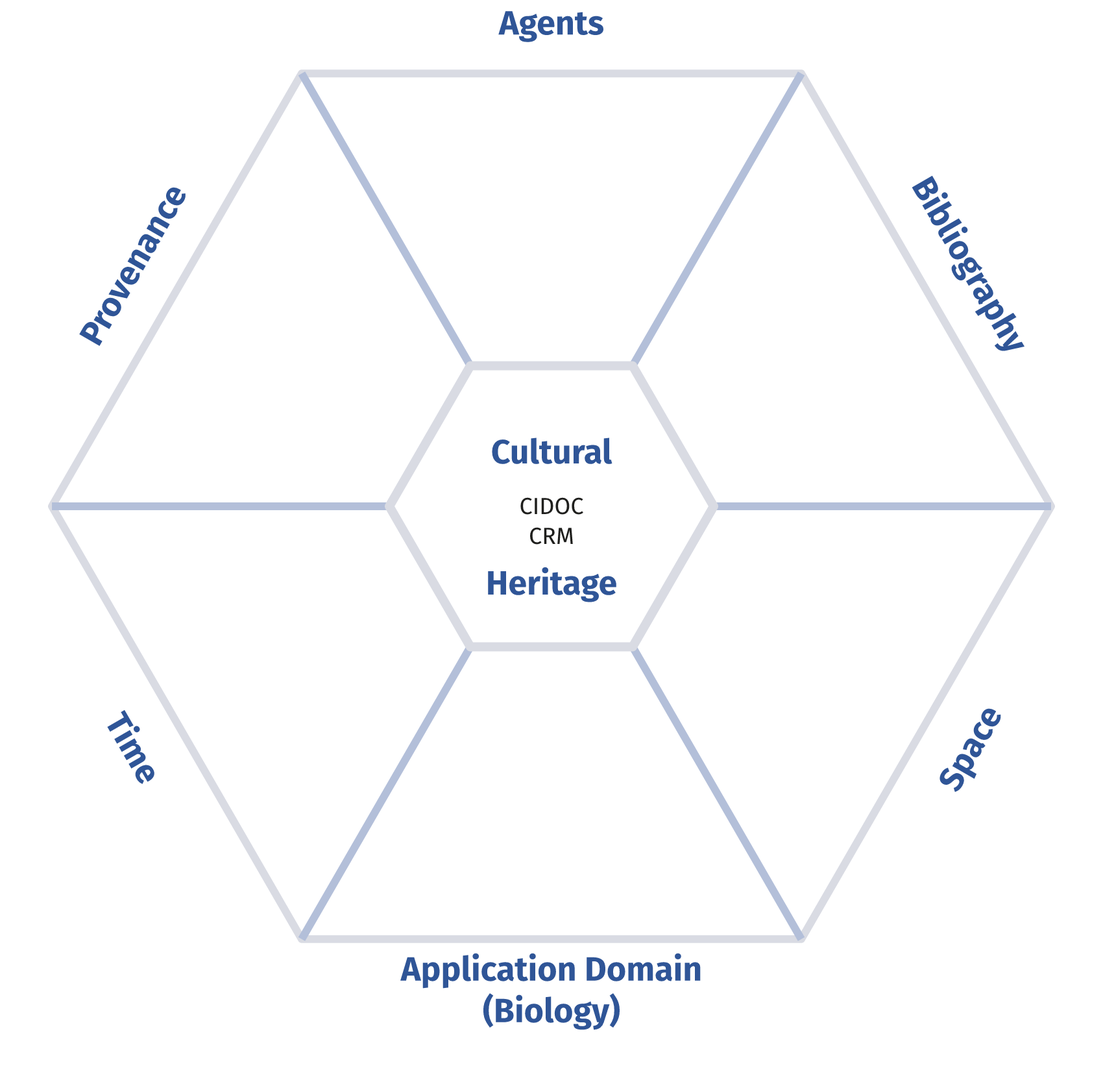
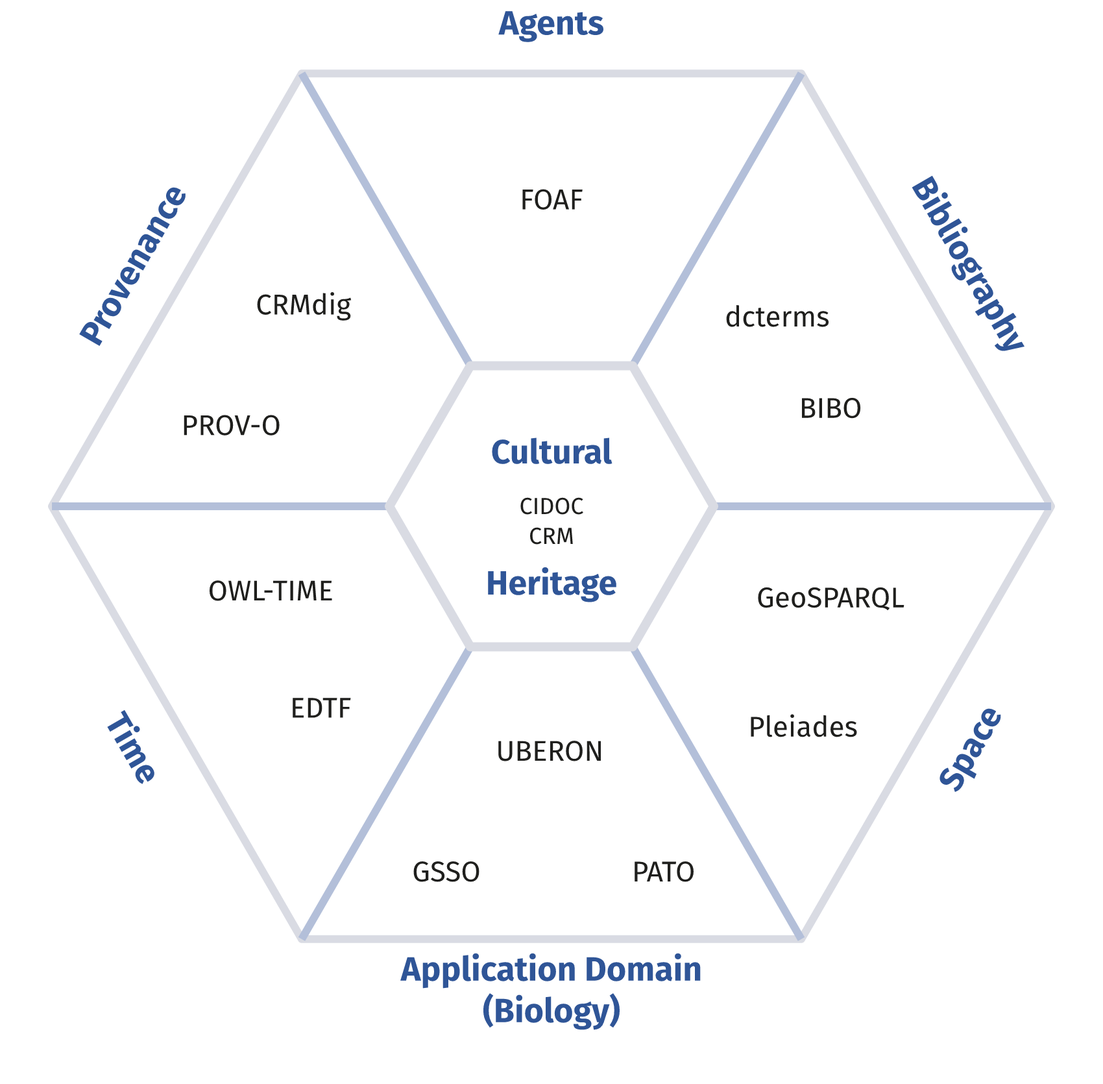
Fig. 9: ontology names in the six sectors, opaque background
Claude-Session: https://claude.ai/code/session_0145BdeBL6JEDb3HE12Py9VZ

diff --git a/docs/derse26_geographs/index.html b/docs/derse26_geographs/index.html
@@ -16,7 +16,7 @@ figure.new{border-color:#c2410c;background:#fff}figcaption{font-weight:500;color
 </style></head><body>
 <header><h1>From Relations to Graphs: figures, submitted and new</h1><div class="meta">deRSE26 / ECEASST, revision of November 2026. Click an image to enlarge, Esc or click to close.</div></header>
 <main><table><tr><td><b>No.</b></td><td><b>Figure</b></td><td><b>Section</b></td><td><b>Status</b></td></tr><tr><td><a href="#fig1">Fig. 1</a></td><td>Federated Knowledge Graph Ecosystem</td><td>§1 Introduction</td><td><span class="chip" style="background:#166534">new figure ready</span></td></tr><tr><td><a href="#fig2">Fig. 2</a></td><td>Ogham stone in Wikidata and the fuzzy-sl Wikibase</td><td>§5.1 Wikidata</td><td><span class="chip" style="background:#55544f">keep as submitted</span></td></tr><tr><td><a href="#fig3">Fig. 3</a></td><td>Schematic data model of the fuzzy-sl Wikibase</td><td>§5.2 fuzzy-sl</td><td><span class="chip" style="background:#166534">new figure ready</span></td></tr><tr><td><a href="#fig4">Fig. 4</a></td><td>Campanian Ignimbrite findspots in the fuzzy-sl Wikibase</td><td>§5.2 fuzzy-sl</td><td><span class="chip" style="background:#166534">new figure ready</span></td></tr><tr><td><a href="#fig5">Fig. 5</a></td><td>The bb5kbc ontology (spatial part)</td><td>§5.3 BB-5KBC</td><td><span class="chip" style="background:#166534">new figure ready</span></td></tr><tr><td><a href="#fig6">Fig. 6</a></td><td>Ontology scheme of the palaeoclimate pipeline</td><td>§5.4 Pipeline</td><td><span class="chip" style="background:#166534">new figure ready</span></td></tr><tr><td><a href="#fig7">Fig. 7</a></td><td>CI instances</td><td>§5.4 Pipeline</td><td><span class="chip" style="background:#166534">new figure ready</span></td></tr><tr><td><a href="#fig8">Fig. 8</a></td><td>Big Exchange meta path</td><td>§5.6 HIN</td><td><span class="chip" style="background:#55544f">keep as submitted</span></td></tr><tr><td><a href="#fig9">Fig. 9</a></td><td>ArNO ontology modules</td><td>§5.7 HIN to KG</td><td><span class="chip" style="background:#166534">new figure ready</span></td></tr><tr><td><a href="#fig10">Fig. 10</a></td><td>Mapping of HIN node types to ArNO classes</td><td>§5.7 HIN to KG</td><td><span class="chip" style="background:#166534">new figure ready</span></td></tr><tr><td><a href="#z2">Z2</a></td><td>One Ogham stone in five modelling styles</td><td>§3 or §4 (placement open)</td><td><span class="chip" style="background:#166534">new figure ready</span></td></tr><tr><td><a href="#z3">Z3</a></td><td>Where the showcases are</td><td>§5 (overview)</td><td><span class="chip" style="background:#166534">new figure ready</span></td></tr></table>
-<section id="fig1"><h2><span class="num">Fig. 1</span> Federated Knowledge Graph Ecosystem <span class="chip" style="background:#166534">new figure ready</span></h2><p class="sec">§1 Introduction</p><div class="pair"><figure><figcaption>Submitted</figcaption><a href="gallery/old/fkge.jpg" class="zoom "><img loading="lazy" src="gallery/old/fkge.jpg" alt="Federated Knowledge Graph Ecosystem"></a><p class="cap">Scheme of the Federated Knowledge Graph Ecosystem. Licence -- Florian Thiery &amp; Andreas Noback, CC BY 4.0</p></figure><figure class="new"><figcaption>New</figcaption><a href="out/fig1_fkge.png" class="zoom "><img loading="lazy" src="out/fig1_fkge.png" alt="Federated Knowledge Graph Ecosystem"></a><p class="cap">Scheme of the Federated Knowledge Graph Ecosystem. Licence: Florian Thiery &amp; Andreas Noback, CC BY 4.0.</p></figure></div><ul><li>Source: thiery_stones_2026, Fig. 1</li><li>Typo Publikation corrected by Flo (OA Publication), margin enlarged on all sides; the figure is his own drawing, so it is only re-exported here (2400 px wide)</li></ul></section><section id="fig2"><h2><span class="num">Fig. 2</span> Ogham stone in Wikidata and the fuzzy-sl Wikibase <span class="chip" style="background:#55544f">keep as submitted</span></h2><p class="sec">§5.1 Wikidata</p><div class="pair"><figure><figcaption>Submitted</figcaption><a href="gallery/old/ogham-wikidata.jpg" class="zoom "><img loading="lazy" src="gallery/old/ogham-wikidata.jpg" alt="Ogham stone in Wikidata and the fuzzy-sl Wikibase"></a><p class="cap">Ogham Stone CIIC 81 and its spatial locations in Wikidata and the fuzzy-sl Wikibase. Licence -- Florian Thiery, CC BY 4.0; (A) Wikidata Community, Public Domain; (B) Florian Thiery, CC BY-NC-SA 4.0; (C/E) Research Squirrel Engineers Network, CC BY 4.0; (E) \copyright~\&#x27;O R\&#x27;{\i}ord\&#x27;ain and Ryan; (F) OpenStreetMap Contributors, Open Database License.</p></figure><figure class="new none"><figcaption>New</figcaption><div class="empty">no new version yet</div></figure></div><ul><li>Screenshots; z2 (below) can complement it as a model comparison</li><li>Reviewer C refers to &quot;Section 5, Figure 2&quot;: probably this figure (assumption)</li></ul></section><section id="fig3"><h2><span class="num">Fig. 3</span> Schematic data model of the fuzzy-sl Wikibase <span class="chip" style="background:#166534">new figure ready</span></h2><p class="sec">§5.2 fuzzy-sl</p><div class="pair"><figure><figcaption>Submitted</figcaption><a href="gallery/old/fuzzy-sl_Wikibase.jpg" class="zoom "><img loading="lazy" src="gallery/old/fuzzy-sl_Wikibase.jpg" alt="Schematic data model of the fuzzy-sl Wikibase"></a><p class="cap">Schematic data model of the fuzzy-sl Wikibase. License -- Florian Thiery, CC BY 4.0.</p></figure><figure class="new"><figcaption>New</figcaption><a href="out/fig3_fuzzysl_datamodel.png" class="zoom "><img loading="lazy" src="out/fig3_fuzzysl_datamodel.png" alt="Schematic data model of the fuzzy-sl Wikibase"></a><p class="cap">Data model of the fuzzy-sl Wikibase. (GLM) Geolocation metadata: a fuzzy-sl entity has a label and a description and is described by its instance type (P1), project (P3), literature reference (P11), related external resource with its relation type (P10, qP12), spatial type (P8), spatial category (P26), the administrative territorial entity in Wikidata (P32) and its coordinate (P4). (CM) Coordinate metadata: the coordinate statement carries ten qualifiers (solid arrows: certainty level and description, method used and description, acting person, source type in generic and detailed form, location type, point type and precision) and three reference properties (dashed arrows: reference URL, reference string, reference item). Grey: instance; purple: vocabulary item with its Q number; dashed outline: external resource; white: literal; black: coordinate. Property labels and classes are those of the static copy of the fuzzy-sl Wikibase. Licence: Florian Thiery, CC BY 4.0.</p></figure></div><ul><li>Redrawn after the old picture (same nodes, properties and arrows); labels, datatypes and classes read from the static Wikibase copy</li><li>Same model as Fig. 4B of Thiery et al. 2026 (JOHD 12:10); P26 (has spatial category) added because the old picture omitted it</li><li>Layout stacked (GLM above CM) because 24 px type needs the width; the old picture placed CM left of GLM</li></ul></section><section id="fig4"><h2><span class="num">Fig. 4</span> Campanian Ignimbrite findspots in the fuzzy-sl Wikibase <span class="chip" style="background:#166534">new figure ready</span></h2><p class="sec">§5.2 fuzzy-sl</p><div class="pair"><figure><figcaption>Submitted</figcaption><a href="gallery/old/ci-fuzzy-sl-wikibase.jpg" class="zoom "><img loading="lazy" src="gallery/old/ci-fuzzy-sl-wikibase.jpg" alt="Campanian Ignimbrite findspots in the fuzzy-sl Wikibase"></a><p class="cap">Geospatial modelling of Campanian Ignimbrite Findspots within the fuzzy-sl Wikibase. Licence -- Florian Thiery &amp; Fiona Schenk, CC BY 4.0; OSM maps: OpenStreetMap Contributors, Open Database License.</p></figure><figure class="new"><figcaption>New</figcaption><a href="out/fig4_ci_findspots.png" class="zoom "><img loading="lazy" src="out/fig4_ci_findspots.png" alt="Campanian Ignimbrite findspots in the fuzzy-sl Wikibase"></a><p class="cap">Campanian Ignimbrite findspots in the geo-lod graph and one coordinate statement in the fuzzy-sl Wikibase. (A) The 74 findspots, distinguished by whether they are typed as archaeological sites (12) or not (62); dashed rings mark 500 km and 1000 km from the Phlegraean Fields, the source area of the eruption. (B) The coordinate statement of Auel Maar AU3 (Q70) with its qualifiers: certainty level and description, method, acting person, source type, precision, location and point type, and the literature reference. Purple: vocabulary terms; grey: items; white: literals. The inset map shows the Eifel around the Auel Maar with rivers, borders, Cologne and Daun. Licence: Florian Thiery and Fiona Schenk, CC BY 4.0; base map: Natural Earth, public domain.</p></figure></div><ul><li>v3: archaeology vs. other, Auel Maar AU3 from the static Wikibase copy, minimap</li><li>Static Wikibase has 19 CI items, the graph 74</li></ul></section><section id="fig5"><h2><span class="num">Fig. 5</span> The bb5kbc ontology (spatial part) <span class="chip" style="background:#166534">new figure ready</span></h2><p class="sec">§5.3 BB-5KBC</p><div class="pair"><figure><figcaption>Submitted</figcaption><a href="gallery/old/bb-5kbc-ontology.jpg" class="zoom "><img loading="lazy" src="gallery/old/bb-5kbc-ontology.jpg" alt="The bb5kbc ontology (spatial part)"></a><p class="cap">The bb5kbc Ontology. Licence -- Florian Thiery &amp; Sophie C. Schmidt, CC BY 4.0.</p></figure><figure class="new"><figcaption>New</figcaption><a href="out/fig5_bb5kbc_spatial.png" class="zoom "><img loading="lazy" src="out/fig5_bb5kbc_spatial.png" alt="The bb5kbc ontology (spatial part)"></a><p class="cap">Spatial part of the BB-5KBC ontology. (A) Classes and properties around the place of a findspot: a Fundstelle (CIDOC CRM E27 Site) lies in a municipality (Gemeinde, with external identifiers such as Wikidata, GeoNames, Getty TGN and OpenStreetMap), district (Kreis), federal state (Bundesland) and country (Land); it has a GeoSPARQL point geometry with a WKT literal, and it was georeferenced by a georeferencing activity (E13 Attribute Assignment) that records method, source type and person. Dark orange: classes; white boxes: attributes with their datatypes; amber: properties. (B) One of the 540 findspots, Seelow 20 (red ring on the map), as an instance: the point geometry, its accuracy (±1000 m, because the published coordinates are rounded to two decimal places), the precision (±0.01°), the certainty level and location type from the fuzzy-sl vocabulary, the municipality and the georeferencing activity. Data: BB-5KBC bundle (commit c2e989b); base map: Natural Earth. Licence: Florian Thiery &amp; Sophie C. Schmidt, CC BY 4.0.</p></figure></div><ul><li>Redrawn from data/bb5kbc-bundle.ttl (bb-5kbc-public, commit c2e989b, 2026-09-15; 540 findspots); the old picture was a Mermaid class diagram</li><li>Example findspot: Seelow 20 (site_80). The bundle still stores hatGenauigkeit 0.0; the figure shows +-1000 m (published coordinates rounded to 2 decimals, JCM 2026 slides) and a precision of +-0.01 degrees, which is not in the data yet: update bb-5kbc-public and re-check the figure</li><li>Geo focus: only the spatial classes (Fundstelle, Gemeinde, Kreis, Bundesland, Land, Point, GeoreferenzierungsAktivitaet); the non-geo classes are omitted and could go into a supplement version</li><li>The data model has changed since the old picture (geo:hasGeometry, fsl certainty and location type, georeferencing activity); every property is asserted against the bundle</li></ul></section><section id="fig6"><h2><span class="num">Fig. 6</span> Ontology scheme of the palaeoclimate pipeline <span class="chip" style="background:#166534">new figure ready</span></h2><p class="sec">§5.4 Pipeline</p><div class="pair"><figure><figcaption>Submitted</figcaption><a href="gallery/old/taxonomy.jpg" class="zoom "><img loading="lazy" src="gallery/old/taxonomy.jpg" alt="Ontology scheme of the palaeoclimate pipeline"></a><p class="cap">Ontology Scheme of the Palaeoclimate Data Processing Pipeline (GeoSciece-FAIRification-LOD). Licence -- Florian Thiery &amp; Fiona Schenk, CC BY 4.0.</p></figure><figure class="new"><figcaption>New</figcaption><a href="out/fig6_place_taxonomy.png" class="zoom "><img loading="lazy" src="out/fig6_place_taxonomy.png" alt="Ontology scheme of the palaeoclimate pipeline"></a><p class="cap">Modelling places in the geo-lod ontologies. (A) The place classes and their anchors in CIDOC CRM, CRMarchaeo and fuzzy-sl; hollow arrows are rdfs:subClassOf statements of the ontology files (geo_lod_core.ttl, crm_bridging.ttl, sisal_ontology.ttl, epica_ontology.ttl). Sampling locations (drilling site, borehole, cave) and Campanian Ignimbrite findspots both specialise crm:E27_Site; the archaeological variants additionally inherit from crmarchaeo:A2_Stratigraphic_Volume_Unit. (B) The geometry of a place: a geo:Feature has a geo:Geometry (sf:Point, which CRMgeo reads as a declarative place; its inheritance from geo:Geometry is defined by GeoSPARQL and Simple Features, not by the ontology files) whose coordinates are a geo:wktLiteral. Dark orange: classes of the geo-lod ontologies; white: external classes; amber: property. Licence: Florian Thiery and Fiona Schenk, CC BY 4.0.</p></figure></div><ul><li>Slice: place classes and geometry pattern; the full scheme could move to the supplement</li><li>&quot;GeoSciece&quot; typo disappears with the new figure</li></ul></section><section id="fig7"><h2><span class="num">Fig. 7</span> CI instances <span class="chip" style="background:#166534">new figure ready</span></h2><p class="sec">§5.4 Pipeline</p><div class="pair"><figure><figcaption>Submitted</figcaption><a href="gallery/old/instance_ci.jpg" class="zoom "><img loading="lazy" src="gallery/old/instance_ci.jpg" alt="CI instances"></a><p class="cap">CI Instances Scheme. Licence -- Florian Thiery &amp; Fiona Schenk, CC BY 4.0.</p></figure><figure class="new"><figcaption>New</figcaption><a href="out/fig7_ci_instances.png" class="zoom "><img loading="lazy" src="out/fig7_ci_instances.png" alt="CI instances"></a><p class="cap">Two Campanian Ignimbrite findspots as instances in the geo-lod graph: (A) Toplitsa Cave (Bulgaria, ci:cisite_44) and (B) Franchthi Cave (Greece, ci:cisite_45). Both are typed as fsl:Site and geolod:CIArchaeologicalSite (a selection of their types is shown), carry the geometry as an sf:Point with a geo:asWKT literal and the fuzzy-sl certainty level, certainty description and literature reference, are aligned to Wikidata and OpenStreetMap via skos:closeMatch, and name the pipeline activity that generated them. The coordinate reference system prefix of the WKT literal is omitted. Colours: dark orange classes, purple vocabulary terms, grey instances, white literals. Minimaps: all 74 findspots (filled: archaeological site), the findspot of the panel ringed in red; country borders and major rivers from Natural Earth. Licence: Florian Thiery and Fiona Schenk, CC BY 4.0.</p></figure></div><ul><li>Toplitsa and Franchthi, every value read from the graph</li><li>Text says 9 archaeological sites, the graph has 12</li></ul></section><section id="fig8"><h2><span class="num">Fig. 8</span> Big Exchange meta path <span class="chip" style="background:#55544f">keep as submitted</span></h2><p class="sec">§5.6 HIN</p><div class="pair"><figure><figcaption>Submitted</figcaption><a href="gallery/old/BigExchangeMetaPath.jpg" class="zoom "><img loading="lazy" src="gallery/old/BigExchangeMetaPath.jpg" alt="Big Exchange meta path"></a><p class="cap">The meta path connecting two materials through finds of these materials that are found in sites with geolocations that share a spatially similar geolocation. Licence -- Mattis thor Straten et al., CC BY 4.0.</p></figure><figure class="new none"><figcaption>New</figcaption><div class="empty">no new version yet</div></figure></div><ul><li>From thor Straten et al. (CC BY 4.0); keeps its own look</li></ul></section><section id="fig9"><h2><span class="num">Fig. 9</span> ArNO ontology modules <span class="chip" style="background:#166534">new figure ready</span></h2><p class="sec">§5.7 HIN to KG</p><div class="pair"><figure><figcaption>Submitted</figcaption><a href="gallery/old/ARNO.jpg" class="zoom "><img loading="lazy" src="gallery/old/ARNO.jpg" alt="ArNO ontology modules"></a><p class="cap">The ontologies combined in the ArNO ontology grouped by the concept domain they are used for. Licence -- Mattis thor Straten et al., CC BY 4.0.</p></figure><figure class="new"><figcaption>New</figcaption><a href="out/fig9_arno_modules.png" class="zoom "><img loading="lazy" src="out/fig9_arno_modules.png" alt="ArNO ontology modules"></a><p class="cap">The ontologies combined in the ArNO ontology, grouped by the concept domain they are used for (redrawn after the original). Licence: Mattis thor Straten et al., CC BY 4.0.</p></figure></div><ul><li>1:1 redraw of the original (644 x 671 px): same hexagon, same seven labels, nothing added or changed; only typeface, colours and resolution follow the common style</li><li>The original is by Mattis thor Straten et al. (CC BY 4.0): say in the caption that it is redrawn after the original, and let him look at it</li></ul></section><section id="fig10"><h2><span class="num">Fig. 10</span> Mapping of HIN node types to ArNO classes <span class="chip" style="background:#166534">new figure ready</span></h2><p class="sec">§5.7 HIN to KG</p><div class="pair"><figure><figcaption>Submitted</figcaption><a href="gallery/old/ARNONetworkSchema.jpg" class="zoom "><img loading="lazy" src="gallery/old/ARNONetworkSchema.jpg" alt="Mapping of HIN node types to ArNO classes"></a><p class="cap">The mapping of the spatial node types of the HIN networks schema (on the right) to the hierarchical ArNO ontology classes. Licence -- Mattis thor Straten et al., CC BY 4.0.</p></figure><figure class="new"><figcaption>New</figcaption><a href="out/fig10_arno_spatial.png" class="zoom "><img loading="lazy" src="out/fig10_arno_spatial.png" alt="Mapping of HIN node types to ArNO classes"></a><p class="cap">Spatial classes of the Archaeo-Natural Ontology (ArNO) and their use in the Poseidon network schema. (A) Class hierarchy: hollow arrows point from a subclass to its superclass; the four classes defined in ArNO (red outline, Discovery Site, Site, Place, Country) sit below the Pleiades, LADO, GeoSPARQL and CIDOC CRM classes that they extend. (B) The spatial node types of the Poseidon network: an ancient DNA sample is found at a discovery site, which lies at a site, at a place, in a country; the discovery site has a point geometry with a WKT literal, and the nodes carry labels and, for the country, an ISO code. Dark orange: classes; white: literals; amber: object and data properties. Redrawn after Mattis thor Straten et al. (2025) from ArNO and poseidon2lod. Licence: Mattis thor Straten and Florian Thiery, CC BY 4.0.</p></figure></div><ul><li>Redrawn from data/ArNO.ttl (commit 5b1ad40) and poseidon2lod; the old picture mixed a Protege screenshot with a slide</li><li>Differences to the old picture (to be checked with Mattis thor Straten): only the Discovery Site has a geometry in poseidon2lod (the old picture also gave the Site a WKT point); ArNO.ttl spells disovery in the label of foundAtDiscoverySite (corrected in the figure)</li><li>Licence of the old picture: Mattis thor Straten et al., CC BY 4.0; the new figure is a redraw, say so in the caption</li></ul></section><section id="z2"><h2><span class="num">New Z2</span> One Ogham stone in five modelling styles <span class="chip" style="background:#166534">new figure ready</span></h2><p class="sec">§3 or §4 (placement open)</p><div class="pair single"><figure class="new"><a href="out/z2_one_stone_five_models.png" class="zoom "><img loading="lazy" src="out/z2_one_stone_five_models.png" alt="One Ogham stone in five modelling styles"></a><p class="cap">One coordinate in five modelling styles, shown for the Ogham stone Coumeenole North (Macalister 1945, textual description). (A) Wikidata: coordinate location with its qualifiers. (B) fuzzy-sl Wikibase: the coordinate statement carries certainty level, method, precision and location type as qualifiers. (C) RDF with GeoSPARQL: the point is a geo:asWKT literal of a geometry resource. (D) Labelled property graph: the point is a property of the node. (E) Heterogeneous information network: the point is a node of its own, so that nearby geolocations can be linked by distance classes. Red outline: where the coordinate sits. Data: Wikidata (CC0), fuzzy-sl Wikibase, Florian Thiery, CC BY 4.0.</p></figure></div><ul><li>Panel A read from data/wd/ (fetch_wd.py, run on the Windows machine)</li></ul></section><section id="z3"><h2><span class="num">New Z3</span> Where the showcases are <span class="chip" style="background:#166534">new figure ready</span></h2><p class="sec">§5 (overview)</p><div class="pair single"><figure class="new"><a href="out/z3_showcase_map.png" class="zoom "><img loading="lazy" src="out/z3_showcase_map.png" alt="Where the showcases are"></a><p class="cap">Where the spatial showcases are. (A) Europe and the Mediterranean: coordinate statements of the fuzzy-sl Wikibase (61; Ogham stones, Roman Britain, Bruttium coin finds, Campanian Ignimbrite and others), the Campanian Ignimbrite findspots of the geo-lod graph (74) and the BB-5KBC findspots (540). (B) The 365 SISAL caves of the geo-lod graph; the red frame marks panel A. The property-graph and HIN showcases are not mapped because they have no point dataset of their own. Base map: Natural Earth, public domain.</p></figure></div><ul><li>Colour = infrastructure (Wikibase vs. bespoke RDF pipeline); LPG and HIN showcases have no point data</li></ul></section></main>
+<section id="fig1"><h2><span class="num">Fig. 1</span> Federated Knowledge Graph Ecosystem <span class="chip" style="background:#166534">new figure ready</span></h2><p class="sec">§1 Introduction</p><div class="pair"><figure><figcaption>Submitted</figcaption><a href="gallery/old/fkge.jpg" class="zoom "><img loading="lazy" src="gallery/old/fkge.jpg" alt="Federated Knowledge Graph Ecosystem"></a><p class="cap">Scheme of the Federated Knowledge Graph Ecosystem. Licence -- Florian Thiery &amp; Andreas Noback, CC BY 4.0</p></figure><figure class="new"><figcaption>New</figcaption><a href="out/fig1_fkge.png" class="zoom "><img loading="lazy" src="out/fig1_fkge.png" alt="Federated Knowledge Graph Ecosystem"></a><p class="cap">Scheme of the Federated Knowledge Graph Ecosystem. Licence: Florian Thiery &amp; Andreas Noback, CC BY 4.0.</p></figure></div><ul><li>Source: thiery_stones_2026, Fig. 1</li><li>Typo Publikation corrected by Flo (OA Publication), margin enlarged on all sides; the figure is his own drawing, so it is only re-exported here (2400 px wide)</li></ul></section><section id="fig2"><h2><span class="num">Fig. 2</span> Ogham stone in Wikidata and the fuzzy-sl Wikibase <span class="chip" style="background:#55544f">keep as submitted</span></h2><p class="sec">§5.1 Wikidata</p><div class="pair"><figure><figcaption>Submitted</figcaption><a href="gallery/old/ogham-wikidata.jpg" class="zoom "><img loading="lazy" src="gallery/old/ogham-wikidata.jpg" alt="Ogham stone in Wikidata and the fuzzy-sl Wikibase"></a><p class="cap">Ogham Stone CIIC 81 and its spatial locations in Wikidata and the fuzzy-sl Wikibase. Licence -- Florian Thiery, CC BY 4.0; (A) Wikidata Community, Public Domain; (B) Florian Thiery, CC BY-NC-SA 4.0; (C/E) Research Squirrel Engineers Network, CC BY 4.0; (E) \copyright~\&#x27;O R\&#x27;{\i}ord\&#x27;ain and Ryan; (F) OpenStreetMap Contributors, Open Database License.</p></figure><figure class="new none"><figcaption>New</figcaption><div class="empty">no new version yet</div></figure></div><ul><li>Screenshots; z2 (below) can complement it as a model comparison</li><li>Reviewer C refers to &quot;Section 5, Figure 2&quot;: probably this figure (assumption)</li></ul></section><section id="fig3"><h2><span class="num">Fig. 3</span> Schematic data model of the fuzzy-sl Wikibase <span class="chip" style="background:#166534">new figure ready</span></h2><p class="sec">§5.2 fuzzy-sl</p><div class="pair"><figure><figcaption>Submitted</figcaption><a href="gallery/old/fuzzy-sl_Wikibase.jpg" class="zoom "><img loading="lazy" src="gallery/old/fuzzy-sl_Wikibase.jpg" alt="Schematic data model of the fuzzy-sl Wikibase"></a><p class="cap">Schematic data model of the fuzzy-sl Wikibase. License -- Florian Thiery, CC BY 4.0.</p></figure><figure class="new"><figcaption>New</figcaption><a href="out/fig3_fuzzysl_datamodel.png" class="zoom "><img loading="lazy" src="out/fig3_fuzzysl_datamodel.png" alt="Schematic data model of the fuzzy-sl Wikibase"></a><p class="cap">Data model of the fuzzy-sl Wikibase. (GLM) Geolocation metadata: a fuzzy-sl entity has a label and a description and is described by its instance type (P1), project (P3), literature reference (P11), related external resource with its relation type (P10, qP12), spatial type (P8), spatial category (P26), the administrative territorial entity in Wikidata (P32) and its coordinate (P4). (CM) Coordinate metadata: the coordinate statement carries ten qualifiers (solid arrows: certainty level and description, method used and description, acting person, source type in generic and detailed form, location type, point type and precision) and three reference properties (dashed arrows: reference URL, reference string, reference item). Grey: instance; purple: vocabulary item with its Q number; dashed outline: external resource; white: literal; black: coordinate. Property labels and classes are those of the static copy of the fuzzy-sl Wikibase. Licence: Florian Thiery, CC BY 4.0.</p></figure></div><ul><li>Redrawn after the old picture (same nodes, properties and arrows); labels, datatypes and classes read from the static Wikibase copy</li><li>Same model as Fig. 4B of Thiery et al. 2026 (JOHD 12:10); P26 (has spatial category) added because the old picture omitted it</li><li>Layout stacked (GLM above CM) because 24 px type needs the width; the old picture placed CM left of GLM</li></ul></section><section id="fig4"><h2><span class="num">Fig. 4</span> Campanian Ignimbrite findspots in the fuzzy-sl Wikibase <span class="chip" style="background:#166534">new figure ready</span></h2><p class="sec">§5.2 fuzzy-sl</p><div class="pair"><figure><figcaption>Submitted</figcaption><a href="gallery/old/ci-fuzzy-sl-wikibase.jpg" class="zoom "><img loading="lazy" src="gallery/old/ci-fuzzy-sl-wikibase.jpg" alt="Campanian Ignimbrite findspots in the fuzzy-sl Wikibase"></a><p class="cap">Geospatial modelling of Campanian Ignimbrite Findspots within the fuzzy-sl Wikibase. Licence -- Florian Thiery &amp; Fiona Schenk, CC BY 4.0; OSM maps: OpenStreetMap Contributors, Open Database License.</p></figure><figure class="new"><figcaption>New</figcaption><a href="out/fig4_ci_findspots.png" class="zoom "><img loading="lazy" src="out/fig4_ci_findspots.png" alt="Campanian Ignimbrite findspots in the fuzzy-sl Wikibase"></a><p class="cap">Campanian Ignimbrite findspots in the geo-lod graph and one coordinate statement in the fuzzy-sl Wikibase. (A) The 74 findspots, distinguished by whether they are typed as archaeological sites (12) or not (62); dashed rings mark 500 km and 1000 km from the Phlegraean Fields, the source area of the eruption. (B) The coordinate statement of Auel Maar AU3 (Q70) with its qualifiers: certainty level and description, method, acting person, source type, precision, location and point type, and the literature reference. Purple: vocabulary terms; grey: items; white: literals. The inset map shows the Eifel around the Auel Maar with rivers, borders, Cologne and Daun. Licence: Florian Thiery and Fiona Schenk, CC BY 4.0; base map: Natural Earth, public domain.</p></figure></div><ul><li>v3: archaeology vs. other, Auel Maar AU3 from the static Wikibase copy, minimap</li><li>Static Wikibase has 19 CI items, the graph 74</li></ul></section><section id="fig5"><h2><span class="num">Fig. 5</span> The bb5kbc ontology (spatial part) <span class="chip" style="background:#166534">new figure ready</span></h2><p class="sec">§5.3 BB-5KBC</p><div class="pair"><figure><figcaption>Submitted</figcaption><a href="gallery/old/bb-5kbc-ontology.jpg" class="zoom "><img loading="lazy" src="gallery/old/bb-5kbc-ontology.jpg" alt="The bb5kbc ontology (spatial part)"></a><p class="cap">The bb5kbc Ontology. Licence -- Florian Thiery &amp; Sophie C. Schmidt, CC BY 4.0.</p></figure><figure class="new"><figcaption>New</figcaption><a href="out/fig5_bb5kbc_spatial.png" class="zoom "><img loading="lazy" src="out/fig5_bb5kbc_spatial.png" alt="The bb5kbc ontology (spatial part)"></a><p class="cap">Spatial part of the BB-5KBC ontology. (A) Classes and properties around the place of a findspot: a Fundstelle (CIDOC CRM E27 Site) lies in a municipality (Gemeinde, with external identifiers such as Wikidata, GeoNames, Getty TGN and OpenStreetMap), district (Kreis), federal state (Bundesland) and country (Land); it has a GeoSPARQL point geometry with a WKT literal, and it was georeferenced by a georeferencing activity (E13 Attribute Assignment) that records method, source type and person. Dark orange: classes; white boxes: attributes with their datatypes; amber: properties. (B) One of the 540 findspots, Seelow 20 (red ring on the map), as an instance: the point geometry, its accuracy (±1000 m, because the published coordinates are rounded to two decimal places), the precision (±0.01°), the certainty level and location type from the fuzzy-sl vocabulary, the municipality and the georeferencing activity. Data: BB-5KBC bundle (commit c2e989b); base map: Natural Earth. Licence: Florian Thiery &amp; Sophie C. Schmidt, CC BY 4.0.</p></figure></div><ul><li>Redrawn from data/bb5kbc-bundle.ttl (bb-5kbc-public, commit c2e989b, 2026-09-15; 540 findspots); the old picture was a Mermaid class diagram</li><li>Example findspot: Seelow 20 (site_80). The bundle still stores hatGenauigkeit 0.0; the figure shows +-1000 m (published coordinates rounded to 2 decimals, JCM 2026 slides) and a precision of +-0.01 degrees, which is not in the data yet: update bb-5kbc-public and re-check the figure</li><li>Geo focus: only the spatial classes (Fundstelle, Gemeinde, Kreis, Bundesland, Land, Point, GeoreferenzierungsAktivitaet); the non-geo classes are omitted and could go into a supplement version</li><li>The data model has changed since the old picture (geo:hasGeometry, fsl certainty and location type, georeferencing activity); every property is asserted against the bundle</li></ul></section><section id="fig6"><h2><span class="num">Fig. 6</span> Ontology scheme of the palaeoclimate pipeline <span class="chip" style="background:#166534">new figure ready</span></h2><p class="sec">§5.4 Pipeline</p><div class="pair"><figure><figcaption>Submitted</figcaption><a href="gallery/old/taxonomy.jpg" class="zoom "><img loading="lazy" src="gallery/old/taxonomy.jpg" alt="Ontology scheme of the palaeoclimate pipeline"></a><p class="cap">Ontology Scheme of the Palaeoclimate Data Processing Pipeline (GeoSciece-FAIRification-LOD). Licence -- Florian Thiery &amp; Fiona Schenk, CC BY 4.0.</p></figure><figure class="new"><figcaption>New</figcaption><a href="out/fig6_place_taxonomy.png" class="zoom "><img loading="lazy" src="out/fig6_place_taxonomy.png" alt="Ontology scheme of the palaeoclimate pipeline"></a><p class="cap">Modelling places in the geo-lod ontologies. (A) The place classes and their anchors in CIDOC CRM, CRMarchaeo and fuzzy-sl; hollow arrows are rdfs:subClassOf statements of the ontology files (geo_lod_core.ttl, crm_bridging.ttl, sisal_ontology.ttl, epica_ontology.ttl). Sampling locations (drilling site, borehole, cave) and Campanian Ignimbrite findspots both specialise crm:E27_Site; the archaeological variants additionally inherit from crmarchaeo:A2_Stratigraphic_Volume_Unit. (B) The geometry of a place: a geo:Feature has a geo:Geometry (sf:Point, which CRMgeo reads as a declarative place; its inheritance from geo:Geometry is defined by GeoSPARQL and Simple Features, not by the ontology files) whose coordinates are a geo:wktLiteral. Dark orange: classes of the geo-lod ontologies; white: external classes; amber: property. Licence: Florian Thiery and Fiona Schenk, CC BY 4.0.</p></figure></div><ul><li>Slice: place classes and geometry pattern; the full scheme could move to the supplement</li><li>&quot;GeoSciece&quot; typo disappears with the new figure</li></ul></section><section id="fig7"><h2><span class="num">Fig. 7</span> CI instances <span class="chip" style="background:#166534">new figure ready</span></h2><p class="sec">§5.4 Pipeline</p><div class="pair"><figure><figcaption>Submitted</figcaption><a href="gallery/old/instance_ci.jpg" class="zoom "><img loading="lazy" src="gallery/old/instance_ci.jpg" alt="CI instances"></a><p class="cap">CI Instances Scheme. Licence -- Florian Thiery &amp; Fiona Schenk, CC BY 4.0.</p></figure><figure class="new"><figcaption>New</figcaption><a href="out/fig7_ci_instances.png" class="zoom "><img loading="lazy" src="out/fig7_ci_instances.png" alt="CI instances"></a><p class="cap">Two Campanian Ignimbrite findspots as instances in the geo-lod graph: (A) Toplitsa Cave (Bulgaria, ci:cisite_44) and (B) Franchthi Cave (Greece, ci:cisite_45). Both are typed as fsl:Site and geolod:CIArchaeologicalSite (a selection of their types is shown), carry the geometry as an sf:Point with a geo:asWKT literal and the fuzzy-sl certainty level, certainty description and literature reference, are aligned to Wikidata and OpenStreetMap via skos:closeMatch, and name the pipeline activity that generated them. The coordinate reference system prefix of the WKT literal is omitted. Colours: dark orange classes, purple vocabulary terms, grey instances, white literals. Minimaps: all 74 findspots (filled: archaeological site), the findspot of the panel ringed in red; country borders and major rivers from Natural Earth. Licence: Florian Thiery and Fiona Schenk, CC BY 4.0.</p></figure></div><ul><li>Toplitsa and Franchthi, every value read from the graph</li><li>Text says 9 archaeological sites, the graph has 12</li></ul></section><section id="fig8"><h2><span class="num">Fig. 8</span> Big Exchange meta path <span class="chip" style="background:#55544f">keep as submitted</span></h2><p class="sec">§5.6 HIN</p><div class="pair"><figure><figcaption>Submitted</figcaption><a href="gallery/old/BigExchangeMetaPath.jpg" class="zoom "><img loading="lazy" src="gallery/old/BigExchangeMetaPath.jpg" alt="Big Exchange meta path"></a><p class="cap">The meta path connecting two materials through finds of these materials that are found in sites with geolocations that share a spatially similar geolocation. Licence -- Mattis thor Straten et al., CC BY 4.0.</p></figure><figure class="new none"><figcaption>New</figcaption><div class="empty">no new version yet</div></figure></div><ul><li>From thor Straten et al. (CC BY 4.0); keeps its own look</li></ul></section><section id="fig9"><h2><span class="num">Fig. 9</span> ArNO ontology modules <span class="chip" style="background:#166534">new figure ready</span></h2><p class="sec">§5.7 HIN to KG</p><div class="pair"><figure><figcaption>Submitted</figcaption><a href="gallery/old/ARNO.jpg" class="zoom "><img loading="lazy" src="gallery/old/ARNO.jpg" alt="ArNO ontology modules"></a><p class="cap">The ontologies combined in the ArNO ontology grouped by the concept domain they are used for. Licence -- Mattis thor Straten et al., CC BY 4.0.</p></figure><figure class="new"><figcaption>New</figcaption><a href="out/fig9_arno_modules.png" class="zoom "><img loading="lazy" src="out/fig9_arno_modules.png" alt="ArNO ontology modules"></a><p class="cap">The ontologies combined in the ArNO ontology, grouped by the concept domain they are used for (redrawn after the original). Licence: Mattis thor Straten et al., CC BY 4.0.</p></figure></div><ul><li>1:1 redraw of the original (644 x 671 px): same hexagon, same seven labels, nothing added or changed; Fira Sans Bold in the original blue (#2f5597), original line colours, transparent sectors and white centre as in the original; only typeface and resolution differ</li><li>The original is by Mattis thor Straten et al. (CC BY 4.0): say in the caption that it is redrawn after the original, and let him look at it</li></ul></section><section id="fig10"><h2><span class="num">Fig. 10</span> Mapping of HIN node types to ArNO classes <span class="chip" style="background:#166534">new figure ready</span></h2><p class="sec">§5.7 HIN to KG</p><div class="pair"><figure><figcaption>Submitted</figcaption><a href="gallery/old/ARNONetworkSchema.jpg" class="zoom "><img loading="lazy" src="gallery/old/ARNONetworkSchema.jpg" alt="Mapping of HIN node types to ArNO classes"></a><p class="cap">The mapping of the spatial node types of the HIN networks schema (on the right) to the hierarchical ArNO ontology classes. Licence -- Mattis thor Straten et al., CC BY 4.0.</p></figure><figure class="new"><figcaption>New</figcaption><a href="out/fig10_arno_spatial.png" class="zoom "><img loading="lazy" src="out/fig10_arno_spatial.png" alt="Mapping of HIN node types to ArNO classes"></a><p class="cap">Spatial classes of the Archaeo-Natural Ontology (ArNO) and their use in the Poseidon network schema. (A) Class hierarchy: hollow arrows point from a subclass to its superclass; the four classes defined in ArNO (red outline, Discovery Site, Site, Place, Country) sit below the Pleiades, LADO, GeoSPARQL and CIDOC CRM classes that they extend. (B) The spatial node types of the Poseidon network: an ancient DNA sample is found at a discovery site, which lies at a site, at a place, in a country; the discovery site has a point geometry with a WKT literal, and the nodes carry labels and, for the country, an ISO code. Dark orange: classes; white: literals; amber: object and data properties. Redrawn after Mattis thor Straten et al. (2025) from ArNO and poseidon2lod. Licence: Mattis thor Straten and Florian Thiery, CC BY 4.0.</p></figure></div><ul><li>Redrawn from data/ArNO.ttl (commit 5b1ad40) and poseidon2lod; the old picture mixed a Protege screenshot with a slide</li><li>Differences to the old picture (to be checked with Mattis thor Straten): only the Discovery Site has a geometry in poseidon2lod (the old picture also gave the Site a WKT point); ArNO.ttl spells disovery in the label of foundAtDiscoverySite (corrected in the figure)</li><li>Licence of the old picture: Mattis thor Straten et al., CC BY 4.0; the new figure is a redraw, say so in the caption</li></ul></section><section id="z2"><h2><span class="num">New Z2</span> One Ogham stone in five modelling styles <span class="chip" style="background:#166534">new figure ready</span></h2><p class="sec">§3 or §4 (placement open)</p><div class="pair single"><figure class="new"><a href="out/z2_one_stone_five_models.png" class="zoom "><img loading="lazy" src="out/z2_one_stone_five_models.png" alt="One Ogham stone in five modelling styles"></a><p class="cap">One coordinate in five modelling styles, shown for the Ogham stone Coumeenole North (Macalister 1945, textual description). (A) Wikidata: coordinate location with its qualifiers. (B) fuzzy-sl Wikibase: the coordinate statement carries certainty level, method, precision and location type as qualifiers. (C) RDF with GeoSPARQL: the point is a geo:asWKT literal of a geometry resource. (D) Labelled property graph: the point is a property of the node. (E) Heterogeneous information network: the point is a node of its own, so that nearby geolocations can be linked by distance classes. Red outline: where the coordinate sits. Data: Wikidata (CC0), fuzzy-sl Wikibase, Florian Thiery, CC BY 4.0.</p></figure></div><ul><li>Panel A read from data/wd/ (fetch_wd.py, run on the Windows machine)</li></ul></section><section id="z3"><h2><span class="num">New Z3</span> Where the showcases are <span class="chip" style="background:#166534">new figure ready</span></h2><p class="sec">§5 (overview)</p><div class="pair single"><figure class="new"><a href="out/z3_showcase_map.png" class="zoom "><img loading="lazy" src="out/z3_showcase_map.png" alt="Where the showcases are"></a><p class="cap">Where the spatial showcases are. (A) Europe and the Mediterranean: coordinate statements of the fuzzy-sl Wikibase (61; Ogham stones, Roman Britain, Bruttium coin finds, Campanian Ignimbrite and others), the Campanian Ignimbrite findspots of the geo-lod graph (74) and the BB-5KBC findspots (540). (B) The 365 SISAL caves of the geo-lod graph; the red frame marks panel A. The property-graph and HIN showcases are not mapped because they have no point dataset of their own. Base map: Natural Earth, public domain.</p></figure></div><ul><li>Colour = infrastructure (Wikibase vs. bespoke RDF pipeline); LPG and HIN showcases have no point data</li></ul></section></main>
 <div id="lb"><img alt=""></div>
 <script>const lb=document.getElementById('lb'),li=lb.querySelector('img');document.querySelectorAll('a.zoom').forEach(a=>a.addEventListener('click',e=>{e.preventDefault();li.src=a.href;lb.style.display='flex'}));lb.addEventListener('click',()=>lb.style.display='none');document.addEventListener('keydown',e=>{if(e.key==='Escape')lb.style.display='none'});</script>
 </body></html>

diff --git a/deRSE26/figures/figs.py b/deRSE26/figures/figs.py
@@ -830,7 +830,7 @@ def fig5():
 def fig9():
     """1:1 redraw of ARNO.png (thor Straten et al.): hexagon with the CIDOC CRM core and six surrounding concept domains. No content added or changed; only type and colours follow the common style."""
     import math
-    f = Fig('fig9_arno_modules', 1670); f.transparent = True   # as the original: the six outer sectors are transparent, only the centre is white
+    f = Fig('fig9_arno_modules', 1670)
     BLUE = '#2f5597'
     cx, cy, R, r = 850, 780, 770, 250
     ap = R * math.cos(math.radians(30))
@@ -838,7 +838,7 @@ def fig9():
     ang = [0, 60, 120, 180, 240, 300]
     outer = [V(R, a) for a in ang]; inner = [V(r, a) for a in ang]
     pts_ = lambda P: ' '.join(f'{x:.1f},{y:.1f}' for x, y in P)
-    f.o.append(f'<polygon points="{pts_(outer)}" fill="none" stroke="#d9dbe3" stroke-width="12" stroke-linejoin="round"/>')
+    f.o.append(f'<polygon points="{pts_(outer)}" fill="#fff" stroke="#d9dbe3" stroke-width="12" stroke-linejoin="round"/>')
     for (x1, y1), (x2, y2) in zip(outer, inner): f.o.append(f'<line x1="{x1:.1f}" y1="{y1:.1f}" x2="{x2:.1f}" y2="{y2:.1f}" stroke="#b3bfd9" stroke-width="12"/>')
     f.o.append(f'<polygon points="{pts_(inner)}" fill="#fff" stroke="#d9dbe3" stroke-width="14" stroke-linejoin="round"/>')
     f.text(cx, cy - 66, 'Cultural', 52, 700, BLUE, maxw=2 * r - 160)
@@ -854,6 +854,10 @@ def fig9():
             f.o.append(f'<text transform="translate({x:.1f},{y:.1f}) rotate({rot}) translate(0,{off + 18:.1f})" font-family="Fira Sans" font-size="52" font-weight="700" fill="{BLUE}" text-anchor="middle">{esc(t)}</text>')
     lab(90, 0, ['Agents']); lab(30, 60, ['Bibliography']); lab(330, -60, ['Space'])
     lab(270, 0, ['Application Domain', '(Biology)']); lab(210, 60, ['Time']); lab(150, -60, ['Provenance'])
+    k = 2.655                                           # positions of the ontology names measured in the original (580 px hexagon width)
+    for t, x, y in [('FOAF', 362, 165), ('CRMdig', 218, 226), ('PROV-O', 176, 296), ('dcterms', 493, 233), ('BIBO', 524, 286), ('OWL-TIME', 199, 392),
+                    ('EDTF', 228, 460), ('GeoSPARQL', 524, 396), ('Pleiades', 508, 471), ('UBERON', 361, 485), ('GSSO', 301, 555), ('PATO', 427, 555)]:
+        f.text(cx + (x - 362) * k, cy + (y - 343) * k + 15, t, 44, 400, INK)
     f.done()
 
 if __name__ == '__main__':

diff --git a/deRSE26/figures/README.md b/deRSE26/figures/README.md
@@ -19,7 +19,7 @@ cd /d C:\git\wikibase-static-help\deRSE26\figures && pip install resvg_py pillow
 | `fig3_fuzzysl_datamodel` | Fig. 3 (old data-model picture) | Geolocation metadata (GLM) and coordinate metadata (CM) of a fuzzy-sl entity: properties, qualifiers, references, value classes | `data/wb/*.json` (properties P1 to P33, classes Q2 to Q125, witness item Q70) |
 
 | `fig5_bb5kbc_spatial` | Fig. 5 (bb5kbc ontology) | (A) spatial classes and properties of the BB-5KBC ontology; (B) one findspot on a map of the 540 findspots and as an instance | `data/bb5kbc-bundle.ttl` (Research-Squirrel-Engineers/bb-5kbc-public, commit c2e989b, 2026-09-15); base map Natural Earth |
-| `fig9_arno_modules` | Fig. 9 (ArNO modules) | hexagon with the CIDOC CRM core and six concept domains, redrawn 1:1, transparent PNG, Fira Sans Bold (fonts/FiraSans-700.ttf, subset) | `gallery/old/ARNO.jpg` (original by Mattis thor Straten et al., CC BY 4.0) |
+| `fig9_arno_modules` | Fig. 9 (ArNO modules) | hexagon with the CIDOC CRM core and six concept domains, redrawn 1:1 with the twelve ontology names, Fira Sans Bold (fonts/FiraSans-700.ttf, subset) | `gallery/old/ARNO.jpg` (original by Mattis thor Straten et al., CC BY 4.0) |
 | `fig10_arno_spatial` | Fig. 10 (ArNO class tree and HIN schema) | (A) spatial part of the ArNO class hierarchy; (B) spatial node types of the Poseidon network schema with properties | `data/ArNO.ttl` (archaeonatural-cloud/archaeonatural-ontology, commit 5b1ad40, 2025-08-28); structure of the Poseidon data after archaeonatural-cloud/poseidon2lod `py/Poseidon2LOD.py` |
 
 Planned: Fig. 7, Fig. 6, and the additions Z2 (one findspot in RDF, LPG and HIN) and Z3 (map of the showcases). Captions: `captions.yaml`.
